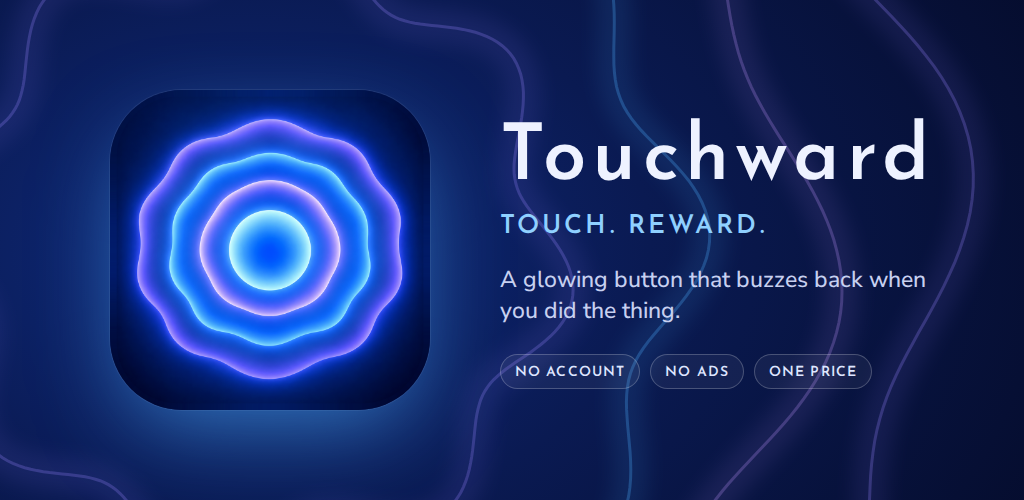
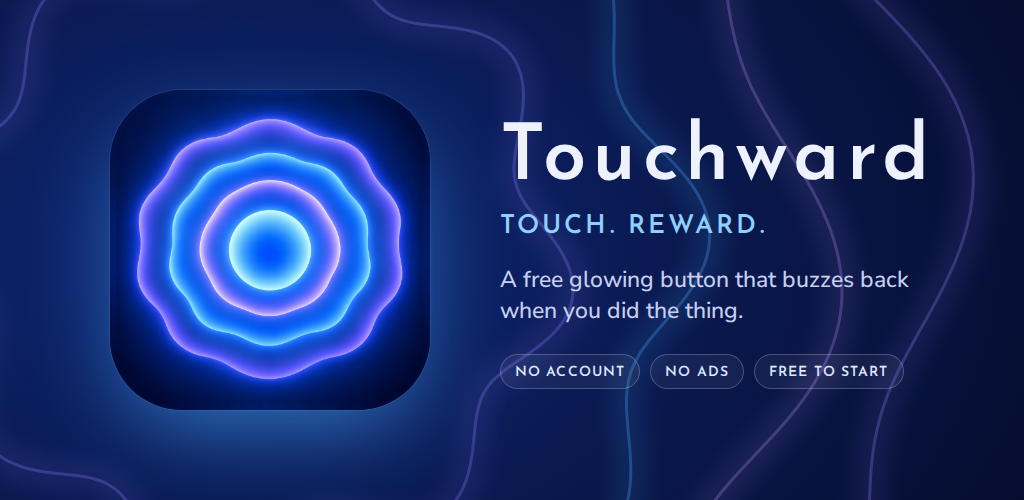
Store: copy and feature graphic for the free app with a one time unlock
Play and App Store descriptions, release notes, and the README pricing
section now describe a free download with a 1.99 non consumable unlock
through RevenueCat. The feature graphic's chip reads Free to start.

Claude-Session: https://claude.ai/code/session_01XAEW9j8EUQupEyqjWdKtp9

Changed region(s): [[0.5, 0.54, 0.9062, 0.66], [0.75, 0.72, 0.875, 0.78]]

diff --git a/store/listing.md b/store/listing.md
@@ -13,8 +13,8 @@ Tap when you did the thing.
 
 ## Promotional text (170)
 
-You did the thing. Tap the button and get a little buzz back. Shape it, color
-it, feel it your way. No account, no ads, nothing to sign in to.
+You did the thing. Tap the button and get a little buzz back. Free to start,
+one unlock for everything. No account, no ads, nothing to sign in to.
 
 ## Description (4000)
 
@@ -69,8 +69,8 @@ your phone. Calendar data is read only to schedule nudges and is never stored
 or sent. The app never asks for your email or your name. If it crashes, an
 anonymous report helps us fix it, and you can turn that off.
 
-Touchward is a one time purchase. No subscription, no in-app purchases, no
-ads.
+Touchward is free to download. One in-app purchase of 1.99 unlocks every
+feature, once, forever. No subscription, no ads.
 
 ## Keywords (100)
 
@@ -92,7 +92,7 @@ A glowing button that buzzes back when you tap it. Hold it for a bigger reward.
 - Random builds a new look in one press. Save the ones you love to your library.
 - Reminders on your schedule, and calendar nudges when each event ends.
 - Volume buttons and a link (touchward://reward) can count as a tap.
-- No account, no ads, no tracking. One-time purchase.
+- Free to start. One 1.99 unlock for everything. No account.
 
 ### App Store "What's New" (4000)
 
@@ -123,12 +123,12 @@ TAP FROM ANYWHERE
 PRIVATE BY DESIGN
 No account and nothing to sign in to. Your settings and your counter stay on your phone. Calendar events are read only to schedule nudges and are never stored or sent. If the app crashes, an anonymous report helps us fix it, and you can turn that off in Customize, More.
 
-Touchward is a one-time purchase with no subscription and no in-app purchases. Questions or ideas: Customize, More, Contact support, or touchward-dopamine.com/support.
+Touchward is free, with one 1.99 in-app purchase that unlocks everything. No subscription. Questions or ideas: Customize, More, Contact support, or touchward-dopamine.com/support.
 
 ### Build notes (for the team, not the stores)
 
-- Version 1.0.1, iOS build 2, Android versionCode 2. First build submitted to
-  both stores.
+- First submitted as 1.0.1 (iOS build 2, Android versionCode 2), a paid app.
+  From 1.0.2 the app is free with a one time 1.99 unlock through RevenueCat.
 - Android release is signed with the Play upload key; Firebase is wired for
   push but no registration address is set, so no tokens leave the device.
 - Crash reports and the in-app support form post to the site Worker at
@@ -174,11 +174,11 @@ Apple Watch, the Action Button, or time sensitive delivery.
 
 ### Short description (80)
 
-Tap when you did the thing. A glowing button that buzzes back. No account.
+Free dopamine reward button. Tap when you did the thing and feel the buzz.
 
 Alternatives:
 
-- A reward button that buzzes back. Tap it when you did the thing.
+- Tap when you did the thing. A glowing button that buzzes back. Free.
 - You did the thing. Tap the button, feel the buzz. Private, no account, no ads.
 
 ### Full description (4000)
@@ -234,9 +234,12 @@ stored or sent anywhere. The app never asks for your name or email, and there
 is no advertising and no tracking. If the app crashes, an anonymous report
 helps us fix it, and you can turn that off in settings.
 
-ONE PRICE, THAT IS IT
-Touchward is a one time purchase. No subscription, no in-app purchases, no ads,
-no upsell. Buy it once and it is yours.
+FREE TO START, ONE UNLOCK FOR EVERYTHING
+Touchward is free. The button, the buzz, the counter, every color, reminders,
+and the first three of every option are yours from the first tap. One in-app
+purchase of 1.99 unlocks the rest: all shapes and reward modes, every strength
+and haptic preset, custom backgrounds, calendar nudges, volume button taps, and
+an unlimited library. Once, forever. No subscription, no ads.
 
 OPEN SOURCE
 The complete source code is public, so every claim above can be checked:

diff --git a/README.md b/README.md
@@ -237,9 +237,13 @@ say the same: Crash Data, collected, not linked to identity, app functionality.
 
 ## Pricing
 
-Touchward is a paid app (one-time purchase, 1.99) with no in-app purchases,
-subscriptions, or accounts, so there is no restore-purchases flow. Ownership
-follows the store account.
+Touchward is free to download with one non consumable in-app purchase, the
+unlock (1.99 US), through RevenueCat (`src/purchases/`). The free app has the
+first three of every option, all colors, reminders, and the Shortcut link;
+everything else, plus custom backdrops, calendar nudges, volume button taps,
+and an unlimited library, needs the unlock (`gates.ts`). No subscriptions or
+accounts. Restore purchases is in Customize, More, and the unlock follows the
+store account.
 
 ## Build store binaries
 
